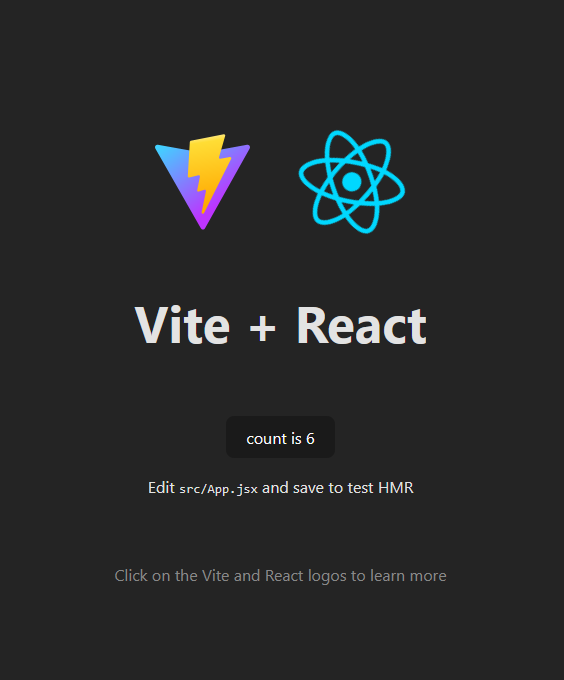
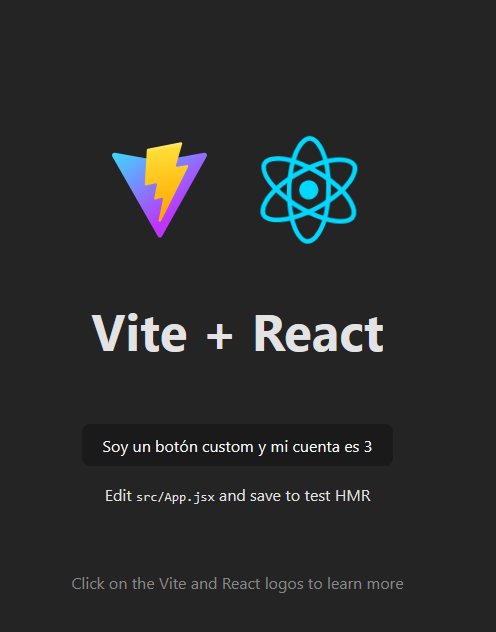
Chore: reemplazar archivos incorrectos

diff --git a/Ejercicio_4/src/App.jsx b/Ejercicio_4/src/App.jsx
@@ -1,22 +1,35 @@
+import { useState } from 'react'
+import reactLogo from './assets/react.svg'
+import viteLogo from '/vite.svg'
+import './App.css'
+
 function App() {
+  const [count, setCount] = useState(0)
+
   return (
-    <div>
-      <h1>Ejercicio 4 – Guía 5</h1>
-      <p>
-        Vite es una herramienta de desarrollo que proporciona una experiencia rápida
-        y sencilla para proyectos web modernos.
+    <>
+      <div>
+        <a href="https://vitejs.dev" target="_blank" rel="noreferrer">
+          <img src={viteLogo} className="logo" alt="Vite logo" />
+        </a>
+        <a href="https://react.dev" target="_blank" rel="noreferrer">
+          <img src={reactLogo} className="logo react" alt="React logo" />
+        </a>
+      </div>
+      <h1>Vite + React</h1>
+      <div className="card">
+        <button onClick={() => setCount((count) => count + 1)}>
+          count is {count}
+        </button>
+        <p>
+          Edit <code>src/App.jsx</code> and save to test HMR
+        </p>
+      </div>
+      <p className="read-the-docs">
+        Click on the Vite and React logos to learn more
       </p>
-      <ul>
-        <li>Servidor de desarrollo con HMR (Hot Module Replacement) muy rápido.</li>
-        <li>Comando de compilación con Rollup que genera activos optimizados para producción.</li>
-      </ul>
-      <p>
-        Podemos usar Vite de dos formas:
-        1. Integrándolo en proyectos existentes.
-        2. Creando un nuevo proyecto con Vite predeterminado.
-      </p>
-    </div>
-  );
+    </>
+  )
 }
 
-export default App;
+export default App

diff --git a/Ejercicio_5/src/App.jsx b/Ejercicio_5/src/App.jsx
@@ -3,8 +3,20 @@ import reactLogo from './assets/react.svg'
 import viteLogo from '/vite.svg'
 import './App.css'
 
+function MyButton(props) {
+  return (
+    <button onClick={props.onClick}>
+      Soy un botón custom y mi cuenta es {props.count}
+    </button>
+  )
+}
+
 function App() {
   const [count, setCount] = useState(0)
+
+  function increment() {
+    setCount((count) => count + 1)
+  }
 
   return (
     <>
@@ -18,9 +30,7 @@ function App() {
       </div>
       <h1>Vite + React</h1>
       <div className="card">
-        <button onClick={() => setCount((count) => count + 1)}>
-          count is {count}
-        </button>
+        <MyButton onClick={increment} count={count} />
         <p>
           Edit <code>src/App.jsx</code> and save to test HMR
         </p>
